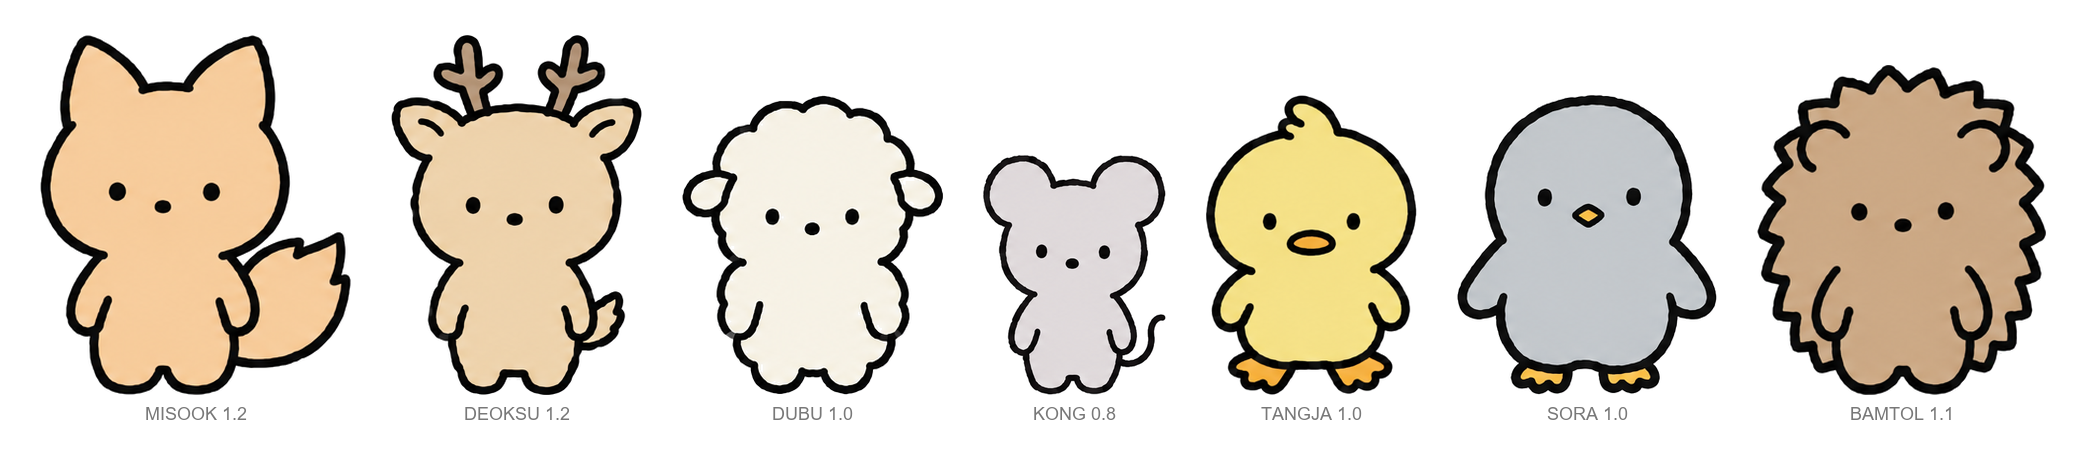
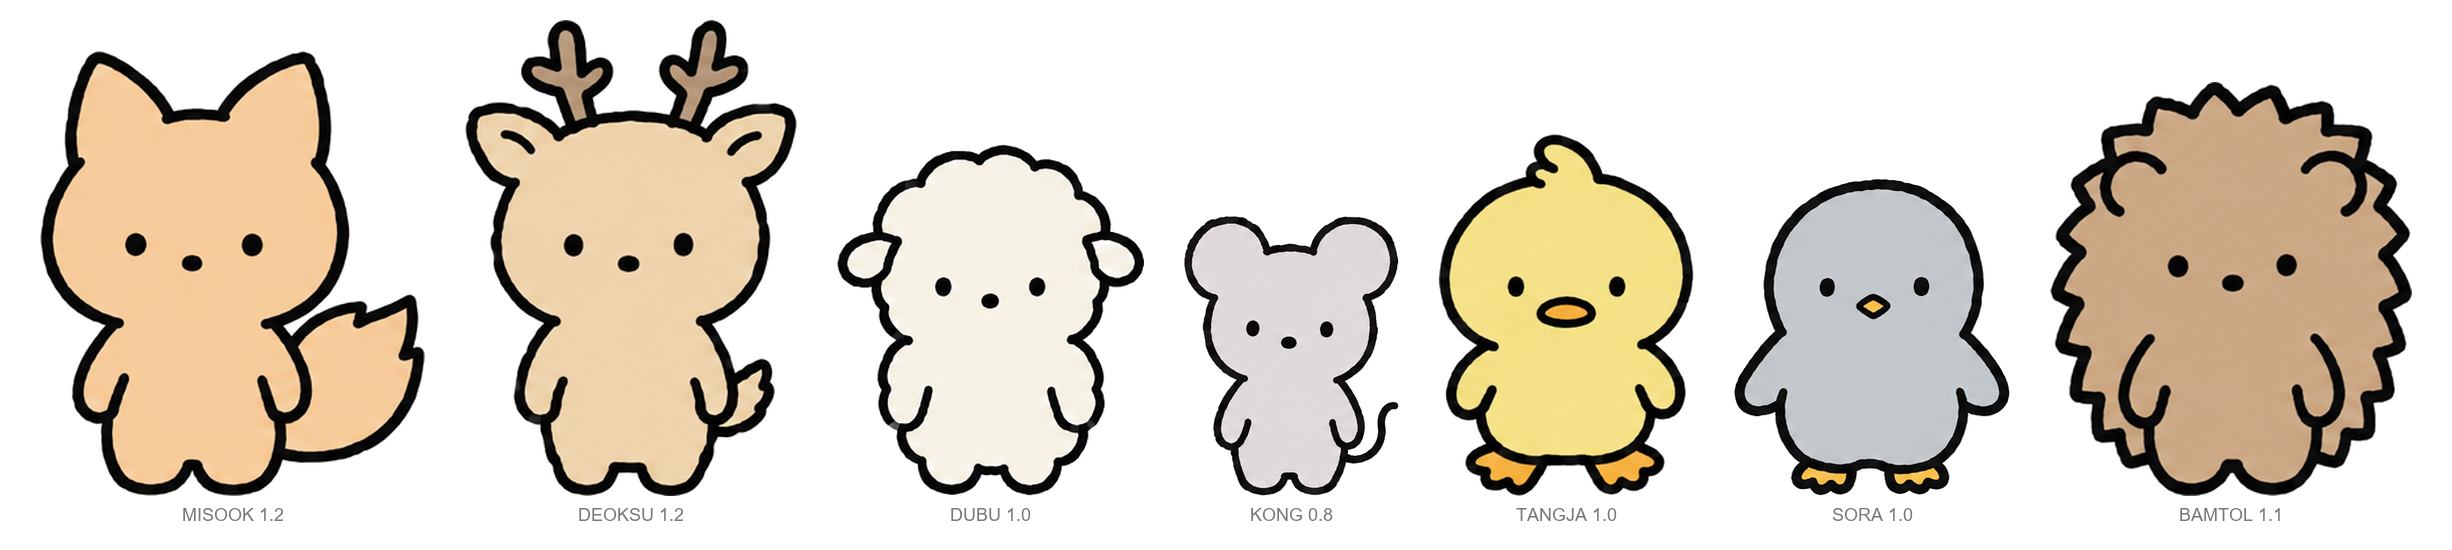
라인업 크기를 역할 기준으로: 눈높이→발끝 거리로 정규화 (귀·뿔·털 제외)

diff --git a/assets/samples/cast-sheets.html b/assets/samples/cast-sheets.html
@@ -24,7 +24,7 @@
 
   <h2>크기 라인업 (시트 FRONT 도를 잘라 합성, 생성 아님)</h2>
   <img src="../cast/lineup-all.png" alt="7인 크기 라인업">
-  <p class="cap">엄마·아빠 1.2 / 남친 1.1 / 주인공·친구 1.0 / 동생 0.8. <code>python scripts/lineup.py all --out …</code></p>
+  <p class="cap">역할 기준 크기: 엄마·아빠 1.2 / 남친 1.1 / 주인공·친구 1.0 / 동생 0.8. 실제 동물 크기와 무관하며, 귀·뿔·털에 영향받지 않도록 <b>눈높이→발끝 거리</b>를 기준으로 맞춘다. <code>python scripts/lineup.py all --out …</code></p>
   <h2>동시 출연 참조 예시 — 두부 + 미숙</h2>
   <img src="../cast/lineup-example-dubu-misook.png" alt="두부 미숙 라인업" style="max-width:420px">
   <p class="cap">컷에 나오는 캐릭터만 골라 만든다: <code>python scripts/lineup.py dubu misook --out episodes/epNN/ref/lineup.png</code> → 컷 생성 시 <code>--ref</code>로 시트들과 함께 입력.</p>

diff --git a/scripts/lineup.py b/scripts/lineup.py
@@ -1,4 +1,5 @@
 """캐릭터 시트에서 FRONT 도를 잘라 크기 비교 라인업을 만든다 (컷 생성 참조용).
+크기는 실제 동물이 아니라 역할 기준: 눈높이→발끝 거리를 기준으로 맞춰 귀·뿔·털 길이에 영향받지 않는다.
 
   python scripts/lineup.py dubu misook --out episodes/ep02/ref/lineup.png
   python scripts/lineup.py all --out assets/cast/lineup-all.png
@@ -18,7 +19,7 @@ CAST = {  # 이름: (시트, 상대 크기, 캡션)
     "bamtol": ("assets/samples/bamtol-sheet-high.png", 1.1, "BAMTOL 1.1"),
 }
 ORDER = ["misook", "deoksu", "dubu", "kong", "tangja", "sora", "bamtol"]
-BASE_H = 300  # 크기 1.0 캐릭터의 픽셀 높이
+BASE_H = 210  # 크기 1.0 캐릭터의 눈높이→발끝 픽셀 거리 (귀·뿔·털 제외, 역할 기준 크기)
 
 
 def grow(seed, ok):
@@ -50,6 +51,27 @@ def front_figure(sheet):
     return Image.fromarray(out)
 
 
+def eye_line(im):
+    """점 눈 2개의 y 평균. 눈은 채워진 작은 검은 원이라 외곽선과 구분된다."""
+    a = np.array(im.convert("L")); dark = a < 70
+    H, W = dark.shape; seen = np.zeros_like(dark); dots = []
+    for y in range(H):
+        for x in range(W):
+            if dark[y, x] and not seen[y, x]:
+                st = [(y, x)]; seen[y, x] = True; pts = []
+                while st:
+                    cy, cx = st.pop(); pts.append((cy, cx))
+                    for ny, nx in ((cy + 1, cx), (cy - 1, cx), (cy, cx + 1), (cy, cx - 1)):
+                        if 0 <= ny < H and 0 <= nx < W and dark[ny, nx] and not seen[ny, nx]:
+                            seen[ny, nx] = True; st.append((ny, nx))
+                ys = [p[0] for p in pts]; xs = [p[1] for p in pts]
+                h = max(ys) - min(ys) + 1; w = max(xs) - min(xs) + 1
+                if 30 < len(pts) < 600 and 0.6 < w / h < 1.6 and len(pts) / (w * h) > 0.55:
+                    dots.append((len(pts), sum(ys) / len(ys)))
+    dots.sort(reverse=True)
+    return (dots[0][1] + dots[1][1]) / 2 if len(dots) >= 2 else None
+
+
 def main():
     ap = argparse.ArgumentParser()
     ap.add_argument("names", nargs="+")
@@ -61,11 +83,14 @@ def main():
     for n in names:
         sheet, scale, cap = CAST[n]
         f = front_figure(sheet)
-        h = int(BASE_H * scale); w = int(f.width * h / f.height)
+        ey = eye_line(f)
+        body = (f.height - ey) if ey else f.height * 0.6  # 눈높이→발끝
+        k = BASE_H * scale / body
+        h = int(f.height * k); w = int(f.width * k)
         figs.append((f.resize((w, h), Image.LANCZOS), cap))
     gap = 40; cap_h = 0 if a.no_caption else 34
     W = sum(f.width for f, _ in figs) + gap * (len(figs) + 1)
-    H = int(BASE_H * 1.25) + gap + cap_h
+    H = max(f.height for f, _ in figs) + gap + cap_h
     M = Image.new("RGB", (W, H), "white"); d = ImageDraw.Draw(M)
     try:
         font = ImageFont.truetype("arial.ttf", 18)

diff --git a/assets/characters.md b/assets/characters.md
@@ -35,7 +35,7 @@ MBTI는 설계용이며 **작품 안(표지·컷·캡션·해시태그 어디에
 
 - 한 편의 초능력은 주인공 것. 조연은 단점이 드러나는 상황과 발동 대상을 공급한다.
 - 콩·탱자·밤톨은 대비(눈치 없음·외향·T), 소라는 동질(더 소심), 엄마·아빠는 세대 반전 소재.
-- 가족이 이종이므로 가족 식별은 크기(1.2 / 1.0 / 0.8)로. "같은 색 계열" 규칙 없음.
+- 크기는 실제 동물이 아니라 역할 기준(부모 1.2 / 남친 1.1 / 또래 1.0 / 동생 0.8). 비교 기준은 귀·뿔·털을 뺀 **눈높이→발끝 거리**. 가족 식별도 이 크기로. "같은 색 계열" 규칙 없음.
 - CTA는 캐릭터 이름을 정체성 태그로: "당신 곁의 두부를 태그해 주세요" → 댓글에서 "나 완전 두부 / 넌 탱자지" 식 자기 분류.
 - 이름은 두 글자 이내 음식·사물 계열 (탱자·밤톨 예외 허용).
 
